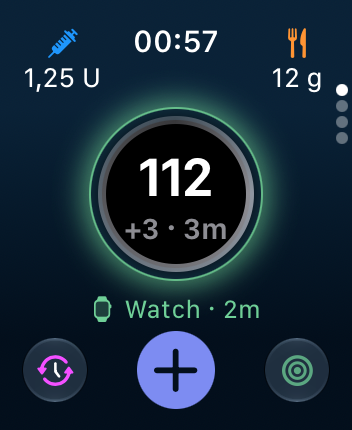
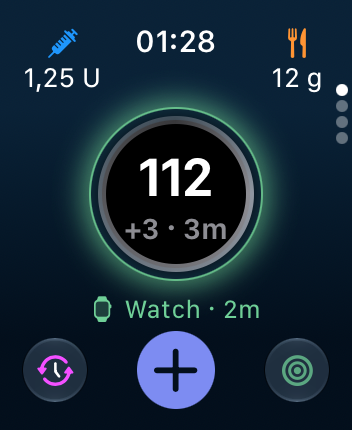
Record the embed-fix merge and new screenshots

Changed region(s): [[0.375, 0.0605, 0.625, 0.1209]]

diff --git a/docs/trio-on-watch/implementation/implementation-status.md b/docs/trio-on-watch/implementation/implementation-status.md
@@ -1551,3 +1551,13 @@ Verification after the fixes (same simulators and derived-data folders):
 | `FileStorageTests` + `TrioOnWatchPhoneStatusTests` + `WatchLoanSnapshotTests` | 24 / 24 |
 
 Still open: G-1 alarm coverage (M3–M5), G-2 `CycleSummary`, G-17/G-M2 and G-M10 (on `fix/tow-watch-embed`), DD-14 and the watch's largest text on a device, a VoiceOver pass on a device.
+
+### Merge of `fix/tow-watch-embed` (feat/trio-on-watch @ `3e18858a7`)
+
+- Conflict in `Loan/WatchLoanAlerts.swift` resolved by keeping `text(for:)` as a call to `TrioOnWatchStatus.refusalText`; the new `notClosedLoop` case maps to `closedLoopRequiredText`, which now carries the branch's wording ("Trio on Watch only runs in Closed Loop. Switch Dosing Mode to Closed Loop on your iPhone first."). `WatchLoanHost+Cycle.swift` merged cleanly: the dosing-mode gate and the snooze filter are both in.
+- The phone's Dosing Mode lock reason is now in F/G style: "Apple Watch is in control. End Trio on Watch to change Dosing Mode. To stop automatic insulin now, use Suspend Insulin on your watch." (was "Your pump is handed over to Apple Watch. Take it back on iPhone…").
+- "Insulin Still Suspended" reminders are also removed when a cycle reads the pump as not suspended (a resume by any means, a pod event) and when the watch stops holding the pump (End, Take Back, stop), since it can no longer see the pump. One line each in `WatchLoanHost+Cycle.swift` (`updateLoopStatus`) and `WatchLoanHost.swift` (`persist`).
+- New screenshot: `handoff-not-closed-loop.png` (both watch sizes). With the embed fix the watch app now launches as built, so the harness no longer copies frameworks in.
+- Not captured: the Settings screenshot still shows the simulator's own lock reason ("Add a CGM and pump…"), because the harness doesn't touch the gate.
+
+Verification after the merge: watch app flag on / off 0 / 0 and iOS app flag on 0, all with the `check-watch-frameworks` phase passing (the watch app now embeds RileyLinkBLEKit, RileyLinkKit and CryptoSwift); `Trio Watch AppTests` 63 / 63 flag on and off; full `Trio Tests` 1252 total, 46 skipped, 1 known issue, no failures (fresh derived data `dd-m6-iostest`).
